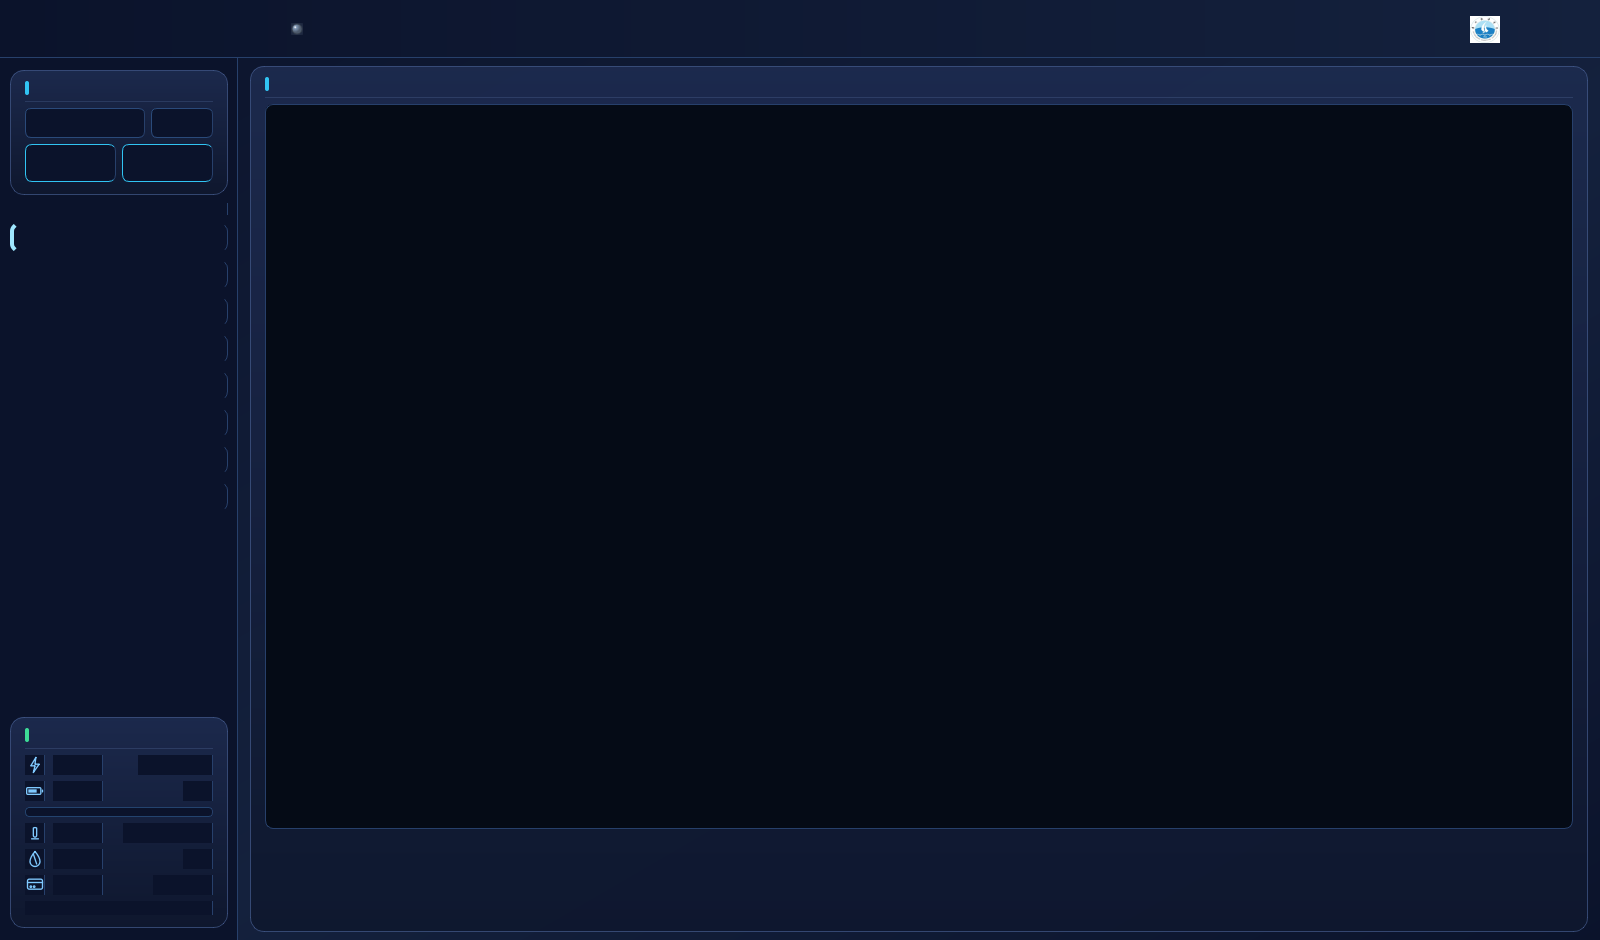
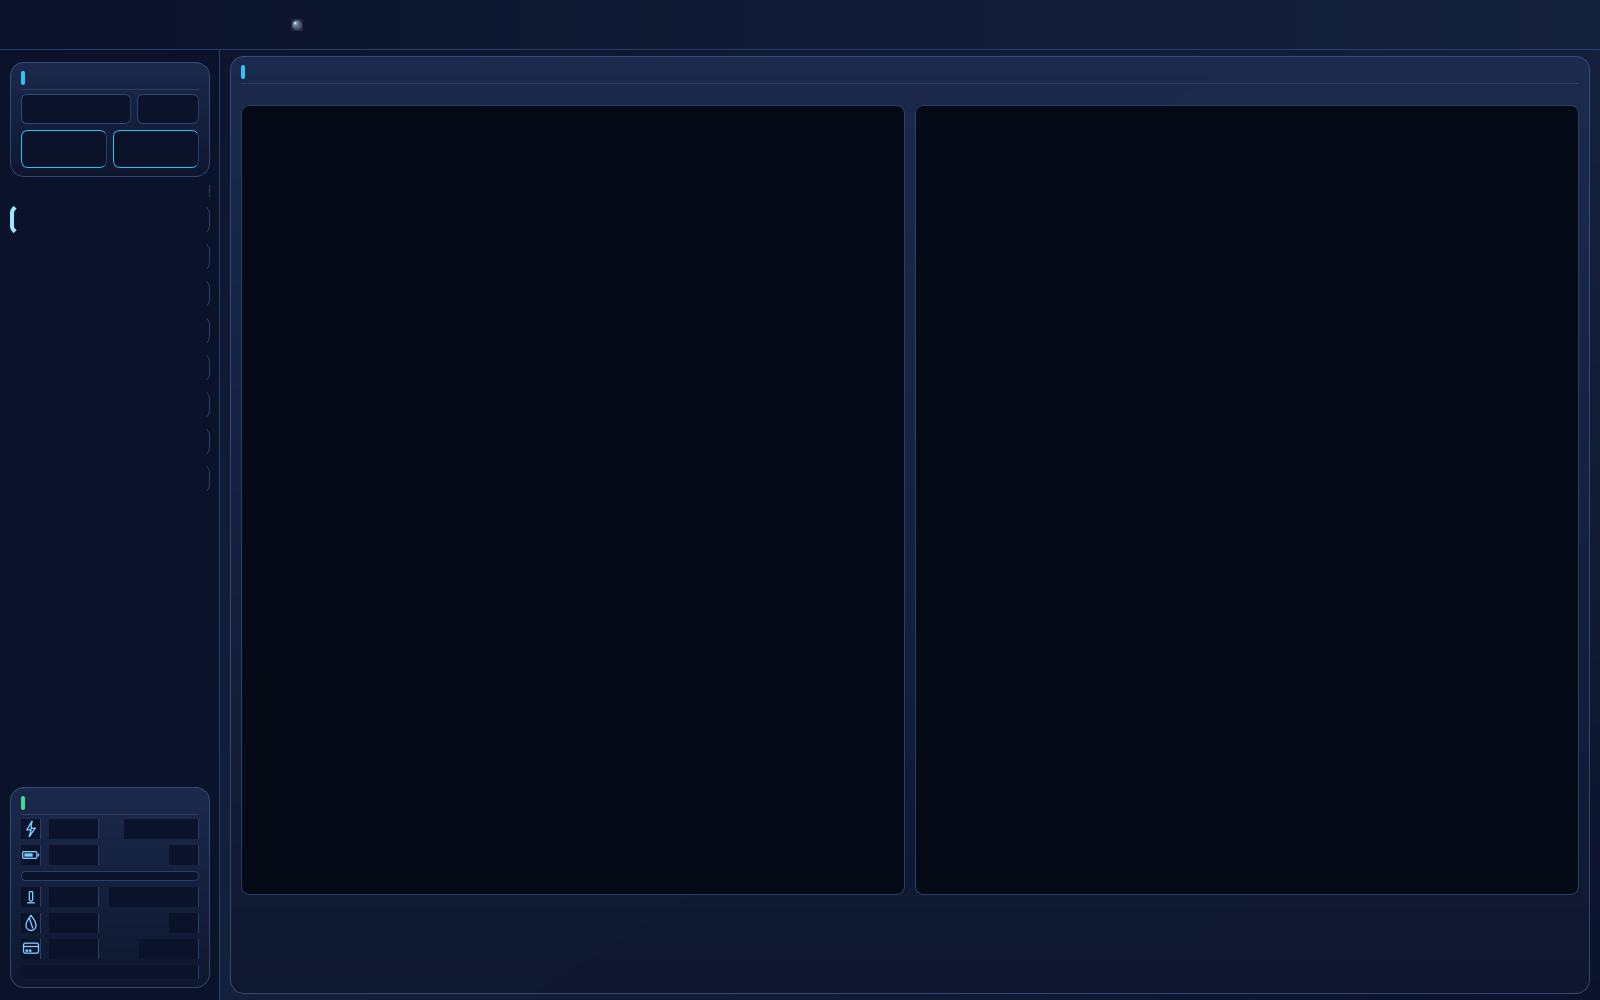
双摄像头：CAM2独立通道(12346)收流+首页翻页切换+实时监控双画面，CAM2可隐藏；布局收紧(面板/页边距/顶栏/侧栏)

Changed region(s): [[0.0, 0.0, 1.0, 0.9872], [0.1562, 0.9872, 1.0, 1.0]]

diff --git a/dashboard.py b/dashboard.py
@@ -86,6 +86,8 @@ _ZERO = {k: 0.0 for k in SYS}
 _ZERO["storage_gb"] = 0.0
 _ZERO["battery"] = 0.0
 
+CAM2_PORT = 12346   # 第二路摄像头(CAM2)视频端口：同主控 IP、独立端口（真机从控/第二路模拟器）
+
 
 class SimTelemetry(object):
     """展示用模拟遥测：缓慢随机游走。接入下位机后删除本类并改从协议解析。"""
@@ -184,8 +186,8 @@ def _panel(title, accent=CYAN):
         "border:1px solid rgba(78,104,158,150);"
         "border-radius:14px;}")
     lay = QVBoxLayout(box)
-    lay.setContentsMargins(14, 10, 14, 12)
-    lay.setSpacing(6)
+    lay.setContentsMargins(10, 8, 10, 8)
+    lay.setSpacing(4)
 
     # 标题行：彩色竖条 + 标题（Fluent 分区头）
     hrow = QHBoxLayout()
@@ -343,6 +345,11 @@ class Dashboard(QWidget):
         self._receiver = None
         self._last_frame = None
         self._video_on = False
+        # ---- 双摄像头：CAM1 主通道 / CAM2 独立通道(可翻页、可隐藏) ----
+        self._video_cam = 1                 # 首页当前显示哪路(1=CAM1 2=CAM2)
+        self._frames = {1: None, 2: None}   # 两路最近 BGR 帧
+        self._sock2 = None                  # CAM2 视频 socket(仅收流)
+        self._recv2 = None
         self._shot_dir = "data"
         self._plan = {"mode": proto.MODE_STOP, "angle": 90,
                       "dir1": 0, "spd1": 0, "dir2": 0, "spd2": 0,
@@ -393,7 +400,7 @@ class Dashboard(QWidget):
     def _header(self):
         bar = QWidget()
         bar.setObjectName("hdr")
-        bar.setFixedHeight(58)
+        bar.setFixedHeight(50)
         bar.setStyleSheet(
             "QWidget#hdr{background:qlineargradient(x1:0,y1:0,x2:1,y2:0,stop:0 %s,stop:1 %s);"
             "border-bottom:1px solid #27406B;}" % (BG0, BG1))
@@ -474,7 +481,7 @@ class Dashboard(QWidget):
     # ----- 左侧栏 -----
     def _sidebar(self):
         side = QWidget()
-        side.setFixedWidth(238)
+        side.setFixedWidth(220)
         side.setStyleSheet(
             "background:qlineargradient(x1:0,y1:0,x2:0,y2:1,stop:0 %s,stop:1 %s);"
             "border-right:1px solid #27406B;" % (BG0, BG0))
@@ -635,7 +642,7 @@ class Dashboard(QWidget):
         """QGC 式首页：顶部紧凑状态条 + 左侧视频主画面(撑满) + 右侧/底部紧凑卡片(贴内容)"""
         page = QWidget()
         outer = QVBoxLayout(page)
-        outer.setContentsMargins(12, 8, 12, 8)
+        outer.setContentsMargins(10, 6, 10, 6)
         outer.setSpacing(8)
         outer.addWidget(self._toolbar())
 
@@ -687,14 +694,30 @@ class Dashboard(QWidget):
     def _monitor_page(self):
         page = QWidget()
         grid = QGridLayout(page)
-        grid.setContentsMargins(12, 8, 12, 8)
+        grid.setContentsMargins(10, 6, 10, 6)
         grid.setSpacing(12)
         box, body = _panel("实时监控 · 视频与关键数据", CYAN)
-        self._monitor_video = QLabel("实时视频（连接 91 后显示）")
-        self._monitor_video.setObjectName("video")
-        self._monitor_video.setAlignment(Qt.AlignCenter)
-        self._monitor_video.setMinimumSize(640, 360)
-        body.addWidget(self._monitor_video, 1)
+        # 双摄像头画面：CAM1 左、CAM2 右，各占一半
+        vrow = QHBoxLayout()
+        vrow.setSpacing(10)
+        for side, tag, color in ((1, "● CAM 01", GREEN), (2, "● CAM 02", CYAN)):
+            vcol = QVBoxLayout()
+            vcol.setSpacing(4)
+            cap = QLabel(tag)
+            cap.setStyleSheet("color:%s; font-size:13px; font-weight:700;" % color)
+            cap.setAlignment(Qt.AlignLeft)
+            vcol.addWidget(cap)
+            lab = QLabel("CAM 0%d 视频（连接后显示）" % side)
+            lab.setObjectName("video")
+            lab.setAlignment(Qt.AlignCenter)
+            lab.setMinimumSize(320, 220)
+            vcol.addWidget(lab, 1)
+            vrow.addLayout(vcol, 1)
+            if side == 1:
+                self._monitor_video = lab
+            else:
+                self._monitor_video2 = lab
+        body.addLayout(vrow, 1)
 
         osd = QHBoxLayout()
         osd.setSpacing(20)
@@ -724,7 +747,7 @@ class Dashboard(QWidget):
     def _mission_page(self):
         page = QWidget()
         lay = QVBoxLayout(page)
-        lay.setContentsMargins(12, 8, 12, 8)
+        lay.setContentsMargins(10, 6, 10, 6)
         lay.setSpacing(12)
         box, body = _panel("任务规划 · 航点与执行", CYAN)
 
@@ -878,7 +901,7 @@ class Dashboard(QWidget):
     def _autonomous_page(self):
         page = QWidget()
         grid = QGridLayout(page)
-        grid.setContentsMargins(12, 8, 12, 8)
+        grid.setContentsMargins(10, 6, 10, 6)
         grid.setSpacing(12)
         box, body = _panel("自主控制 · 参数与控制", BLUE)
         r = QHBoxLayout()
@@ -1056,7 +1079,7 @@ class Dashboard(QWidget):
     def _sonar_page(self):
         page = QWidget()
         outer = QVBoxLayout(page)
-        outer.setContentsMargins(12, 8, 12, 8)
+        outer.setContentsMargins(10, 6, 10, 6)
         outer.setSpacing(12)
 
         # 探测设置 + 状态
@@ -1171,7 +1194,7 @@ class Dashboard(QWidget):
     def _settings_page(self):
         page = QWidget()
         grid = QGridLayout(page)
-        grid.setContentsMargins(12, 8, 12, 8)
+        grid.setContentsMargins(10, 6, 10, 6)
         grid.setSpacing(12)
 
         box, body = _panel("系统设置 · 主控连接", CYAN)
@@ -1279,7 +1302,7 @@ class Dashboard(QWidget):
     def _data_page(self):
         page = QWidget()
         grid = QGridLayout(page)
-        grid.setContentsMargins(12, 8, 12, 8)
+        grid.setContentsMargins(10, 6, 10, 6)
         grid.setSpacing(12)
         box, body = _panel("数据管理 · 指令/遥测记录", CYAN)
         top = QHBoxLayout()
@@ -1390,7 +1413,7 @@ class Dashboard(QWidget):
     def _logs_page(self):
         page = QWidget()
         grid = QGridLayout(page)
-        grid.setContentsMargins(12, 8, 12, 8)
+        grid.setContentsMargins(10, 6, 10, 6)
         grid.setSpacing(12)
         box, body = _panel("日志信息 · 分级筛选", YELLOW)
         top = QHBoxLayout()
@@ -1498,11 +1521,14 @@ class Dashboard(QWidget):
         vrow.addLayout(depth_col)
         body.addLayout(vrow, 1)
 
-        # 底栏
+        # 底栏（CAM1/CAM2 翻页切换 + 视频控制）
         bar = QHBoxLayout()
-        cam = QLabel("● CAM 01")
-        cam.setStyleSheet("color:%s; font-size:12px; font-weight:700;" % GREEN)
-        bar.addWidget(cam)
+        self._cam_btn = QPushButton("● CAM 01")
+        self._cam_btn.setObjectName("ghostBtn")
+        self._cam_btn.setCursor(Qt.PointingHandCursor)
+        self._cam_btn.setToolTip("切换显示 CAM 1 / CAM 2（第二路可翻页隐藏）")
+        self._cam_btn.clicked.connect(self._switch_cam)
+        bar.addWidget(self._cam_btn)
         bar.addStretch(1)
         self._btn_video = QPushButton("打开视频")
         self._btn_photo = QPushButton("📷 截图")
@@ -1857,6 +1883,7 @@ class Dashboard(QWidget):
                           brush="000", brush_speed=0, light=0)
         self._sync_quick_ui()
         self._send_plan(announce=False)
+        self.connect_cam2(quiet=True)   # 主控连上后顺带尝试 CAM2 视频通道
 
     def disconnect_91(self):
         recv, self._receiver = self._receiver, None
@@ -1879,6 +1906,68 @@ class Dashboard(QWidget):
         self._set_online(False)
         self._btn_conn.setEnabled(True)
         self._btn_disc.setEnabled(False)
+        self._close_cam2()   # 一并断开 CAM2 视频通道
+
+    # ------------------------------------------------------------------
+    # CAM2 第二路摄像头：仅视频流（独立端口，不发指令；指令仍走 91 主控）
+    # ------------------------------------------------------------------
+    def connect_cam2(self, quiet=True):
+        if self._recv2 is not None:
+            return
+        ip = self._ip.text().strip() or proto.DEFAULT_IP
+        try:
+            sock = socket.socket(socket.AF_INET, socket.SOCK_STREAM)
+            sock.settimeout(1.5)
+            sock.connect((ip, CAM2_PORT))
+        except Exception:
+            return          # CAM2 可选：连不上静默，不打断演示
+        self._sock2 = sock
+        recv = FrameReceiver(sock)
+        recv.frame_ready.connect(lambda f: self._on_frame(f, 2))
+        recv.broken.connect(lambda _r: self._on_cam2_broken(_r))
+        recv.start()
+        self._recv2 = recv
+        if not quiet:
+            self._flash("CAM2 视频通道已连接 %s:%d" % (ip, CAM2_PORT), "ok")
+
+    def _close_cam2(self):
+        recv, self._recv2 = self._recv2, None
+        if recv:
+            try:
+                recv.stop()
+                recv.wait(1500)
+            except Exception:
+                pass
+        sock, self._sock2 = self._sock2, None
+        if sock:
+            try:
+                sock.close()
+            except OSError:
+                pass
+        self._frames[2] = None
+
+    def _on_cam2_broken(self, reason):
+        self._close_cam2()
+        if self._video_cam == 2:
+            self._flash("CAM2 视频通道已断开", "warn")
+
+    def _switch_cam(self):
+        """首页实时画面：在 CAM 1 / CAM 2 之间翻页切换显示源（CAM2 可隐藏）"""
+        self._video_cam = 2 if self._video_cam == 1 else 1
+        self._cam_btn.setText("● CAM 0%d" % self._video_cam)
+        if self._video_cam == 2 and self._recv2 is None:
+            self.connect_cam2(quiet=True)
+        if not self._video_on:
+            self._flash("已切换到 CAM 0%d" % self._video_cam, "info")
+            return
+        bgr = self._frames.get(self._video_cam)
+        if bgr is not None:
+            self._on_frame(bgr, self._video_cam)
+            self._flash("已切换到 CAM 0%d" % self._video_cam, "info")
+        else:
+            self._video_label.clear()
+            self._video_label.setText(
+                "CAM 0%d 无信号（请确认该路模拟器/摄像头已开）" % self._video_cam)
 
     def _on_broken(self, reason):
         if self._connected:
@@ -1895,29 +1984,41 @@ class Dashboard(QWidget):
                 pass
             self._sock = None
 
-    def _on_frame(self, bgr):
-        t = time.time()
-        dt = t - self._last_frame_t
-        self._last_frame_t = t
-        if 0.001 < dt < 1.0:
-            self._fps = 0.7 * self._fps + 0.3 * (1.0 / dt)
-        self._last_frame = bgr
+    def _on_frame(self, bgr, cam=1):
+        """双摄像头帧路由：cam=1 主控 CAM1 / cam=2 CAM2。
+        首页只显示当前选中 CAM；实时监控页 CAM1 左 CAM2 右；自主控制页跟随 CAM1。"""
+        self._frames[cam] = bgr
+        if cam == self._video_cam:
+            t = time.time()
+            dt = t - self._last_frame_t
+            self._last_frame_t = t
+            if 0.001 < dt < 1.0:
+                self._fps = 0.7 * self._fps + 0.3 * (1.0 / dt)
+            self._last_frame = bgr
         if not self._video_on:
             return
         rgb = cv2.cvtColor(bgr, cv2.COLOR_BGR2RGB)
         h, w, ch = rgb.shape
         img = QImage(rgb.data, w, h, ch * w, QImage.Format_RGB888).copy()
-        pix = QPixmap.fromImage(img).scaled(
-            self._video_label.width(), self._video_label.height(),
-            Qt.KeepAspectRatio, Qt.SmoothTransformation)
-        self._video_label.setPixmap(pix)
-        # 同步到“实时监控”页大图
-        if hasattr(self, "_monitor_video") and self._monitor_video.width() > 0:
+        # 首页实时画面：仅当前选中 CAM
+        if cam == self._video_cam and self._video_label.width() > 0:
+            pix = QPixmap.fromImage(img).scaled(
+                self._video_label.width(), self._video_label.height(),
+                Qt.KeepAspectRatio, Qt.SmoothTransformation)
+            self._video_label.setPixmap(pix)
+        # 实时监控页：CAM1 左 / CAM2 右，各自实时
+        if cam == 1 and hasattr(self, "_monitor_video") and self._monitor_video.width() > 0:
             pix2 = QPixmap.fromImage(img).scaled(
                 self._monitor_video.width(), self._monitor_video.height(),
                 Qt.KeepAspectRatio, Qt.SmoothTransformation)
             self._monitor_video.setPixmap(pix2)
-        if hasattr(self, "_auto_video") and self._auto_video.width() > 0:
+        if cam == 2 and hasattr(self, "_monitor_video2") and self._monitor_video2.width() > 0:
+            pix2b = QPixmap.fromImage(img).scaled(
+                self._monitor_video2.width(), self._monitor_video2.height(),
+                Qt.KeepAspectRatio, Qt.SmoothTransformation)
+            self._monitor_video2.setPixmap(pix2b)
+        # 自主控制页：CAM1 画面
+        if cam == 1 and hasattr(self, "_auto_video") and self._auto_video.width() > 0:
             pix3 = QPixmap.fromImage(img).scaled(
                 self._auto_video.width(), self._auto_video.height(),
                 Qt.KeepAspectRatio, Qt.SmoothTransformation)
